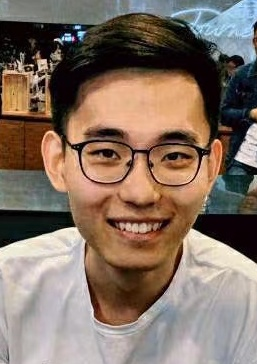
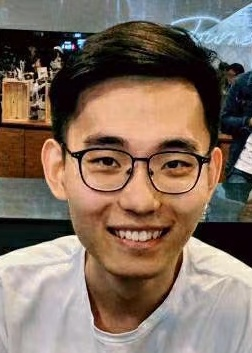
updated site

diff --git a/author/gu-tu/index.html b/author/gu-tu/index.html
@@ -308,8 +308,8 @@
   <meta property="og:site_name" content="ML for Data Management" />
   <meta property="og:url" content="https://MLxDB.github.io/author/gu-tu/" />
   <meta property="og:title" content="Gu Tu | ML for Data Management" />
-  <meta property="og:description" content="A highly-customizable Hugo research group theme powered by Wowchemy website builder." /><meta property="og:image" content="https://MLxDB.github.io/author/gu-tu/avatar_huba4addf2a98cbcdc91b63cbe3c778e47_42057_270x270_fill_q75_lanczos_center.jpeg" />
-    <meta property="twitter:image" content="https://MLxDB.github.io/author/gu-tu/avatar_huba4addf2a98cbcdc91b63cbe3c778e47_42057_270x270_fill_q75_lanczos_center.jpeg" /><meta property="og:locale" content="en-us" />
+  <meta property="og:description" content="A highly-customizable Hugo research group theme powered by Wowchemy website builder." /><meta property="og:image" content="https://MLxDB.github.io/author/gu-tu/avatar_hu2ab1f54750983de9614d5441481818ef_40288_270x270_fill_q75_lanczos_center.jpeg" />
+    <meta property="twitter:image" content="https://MLxDB.github.io/author/gu-tu/avatar_hu2ab1f54750983de9614d5441481818ef_40288_270x270_fill_q75_lanczos_center.jpeg" /><meta property="og:locale" content="en-us" />
   
     
   
@@ -696,7 +696,7 @@
       
       <img class="avatar avatar-circle"
            width="270" height="270"
-           src="/author/gu-tu/avatar_huba4addf2a98cbcdc91b63cbe3c778e47_42057_270x270_fill_q75_lanczos_center.jpeg" alt="Gu Tu">
+           src="/author/gu-tu/avatar_hu2ab1f54750983de9614d5441481818ef_40288_270x270_fill_q75_lanczos_center.jpeg" alt="Gu Tu">
       
 
       <div class="portrait-title">

diff --git a/author/zhao-yue/index.html b/author/zhao-yue/index.html
@@ -291,7 +291,6 @@
   
     
     
-    
   
   
 
@@ -308,8 +307,8 @@
   <meta property="og:site_name" content="ML for Data Management" />
   <meta property="og:url" content="https://MLxDB.github.io/author/zhao-yue/" />
   <meta property="og:title" content="ZHAO Yue | ML for Data Management" />
-  <meta property="og:description" content="A highly-customizable Hugo research group theme powered by Wowchemy website builder." /><meta property="og:image" content="https://MLxDB.github.io/author/zhao-yue/avatar_hu148e8b3052e181beb50b1422972ef977_2729585_270x270_fill_q75_lanczos_center.jpeg" />
-    <meta property="twitter:image" content="https://MLxDB.github.io/author/zhao-yue/avatar_hu148e8b3052e181beb50b1422972ef977_2729585_270x270_fill_q75_lanczos_center.jpeg" /><meta property="og:locale" content="en-us" />
+  <meta property="og:description" content="A highly-customizable Hugo research group theme powered by Wowchemy website builder." /><meta property="og:image" content="https://MLxDB.github.io/media/icon_hu977496d800f0d840e643bbe9854d61d3_17236_512x512_fill_lanczos_center_3.png" />
+    <meta property="twitter:image" content="https://MLxDB.github.io/media/icon_hu977496d800f0d840e643bbe9854d61d3_17236_512x512_fill_lanczos_center_3.png" /><meta property="og:locale" content="en-us" />
   
     
   
@@ -692,11 +691,6 @@
   <div class="col-12 col-lg-4">
     <div id="profile">
 
-      
-      
-      <img class="avatar avatar-circle"
-           width="270" height="270"
-           src="/author/zhao-yue/avatar_hu148e8b3052e181beb50b1422972ef977_2729585_270x270_fill_q75_lanczos_center.jpeg" alt="ZHAO Yue">
       
 
       <div class="portrait-title">

diff --git a/author/yin-ziqi/index.html b/author/yin-ziqi/index.html
@@ -291,7 +291,6 @@
   
     
     
-    
   
   
 
@@ -308,8 +307,8 @@
   <meta property="og:site_name" content="ML for Data Management" />
   <meta property="og:url" content="https://MLxDB.github.io/author/yin-ziqi/" />
   <meta property="og:title" content="Yin Ziqi | ML for Data Management" />
-  <meta property="og:description" content="A highly-customizable Hugo research group theme powered by Wowchemy website builder." /><meta property="og:image" content="https://MLxDB.github.io/author/yin-ziqi/avatar_hu1ec37d41bab3cf8b65dd1d8ab41871f1_15841_270x270_fill_q75_lanczos_center.jpeg" />
-    <meta property="twitter:image" content="https://MLxDB.github.io/author/yin-ziqi/avatar_hu1ec37d41bab3cf8b65dd1d8ab41871f1_15841_270x270_fill_q75_lanczos_center.jpeg" /><meta property="og:locale" content="en-us" />
+  <meta property="og:description" content="A highly-customizable Hugo research group theme powered by Wowchemy website builder." /><meta property="og:image" content="https://MLxDB.github.io/media/icon_hu977496d800f0d840e643bbe9854d61d3_17236_512x512_fill_lanczos_center_3.png" />
+    <meta property="twitter:image" content="https://MLxDB.github.io/media/icon_hu977496d800f0d840e643bbe9854d61d3_17236_512x512_fill_lanczos_center_3.png" /><meta property="og:locale" content="en-us" />
   
     
   
@@ -692,11 +691,6 @@
   <div class="col-12 col-lg-4">
     <div id="profile">
 
-      
-      
-      <img class="avatar avatar-circle"
-           width="270" height="270"
-           src="/author/yin-ziqi/avatar_hu1ec37d41bab3cf8b65dd1d8ab41871f1_15841_270x270_fill_q75_lanczos_center.jpeg" alt="Yin Ziqi">
       
 
       <div class="portrait-title">

diff --git a/people/index.html b/people/index.html
@@ -893,7 +893,7 @@
     
     
       
-      <a href="/author/gu-tu/"><img width="270" height="270" loading="lazy" class="avatar avatar-circle" src="/author/gu-tu/avatar_huba4addf2a98cbcdc91b63cbe3c778e47_42057_270x270_fill_q75_lanczos_center.jpeg" alt="Avatar"></a>
+      <a href="/author/gu-tu/"><img width="270" height="270" loading="lazy" class="avatar avatar-circle" src="/author/gu-tu/avatar_hu2ab1f54750983de9614d5441481818ef_40288_270x270_fill_q75_lanczos_center.jpeg" alt="Avatar"></a>
     
 
     <div class="portrait-title">
@@ -1446,12 +1446,6 @@
   <div class="col-12 col-sm-auto people-person">
     
     
-      
-      
-    
-    
-      
-      <a href="/author/yin-ziqi/"><img width="270" height="270" loading="lazy" class="avatar avatar-circle" src="/author/yin-ziqi/avatar_hu1ec37d41bab3cf8b65dd1d8ab41871f1_15841_270x270_fill_q75_lanczos_center.jpeg" alt="Avatar"></a>
     
 
     <div class="portrait-title">
@@ -1539,12 +1533,6 @@
   <div class="col-12 col-sm-auto people-person">
     
     
-      
-      
-    
-    
-      
-      <a href="/author/zhao-yue/"><img width="270" height="270" loading="lazy" class="avatar avatar-circle" src="/author/zhao-yue/avatar_hu148e8b3052e181beb50b1422972ef977_2729585_270x270_fill_q75_lanczos_center.jpeg" alt="Avatar"></a>
     
 
     <div class="portrait-title">
